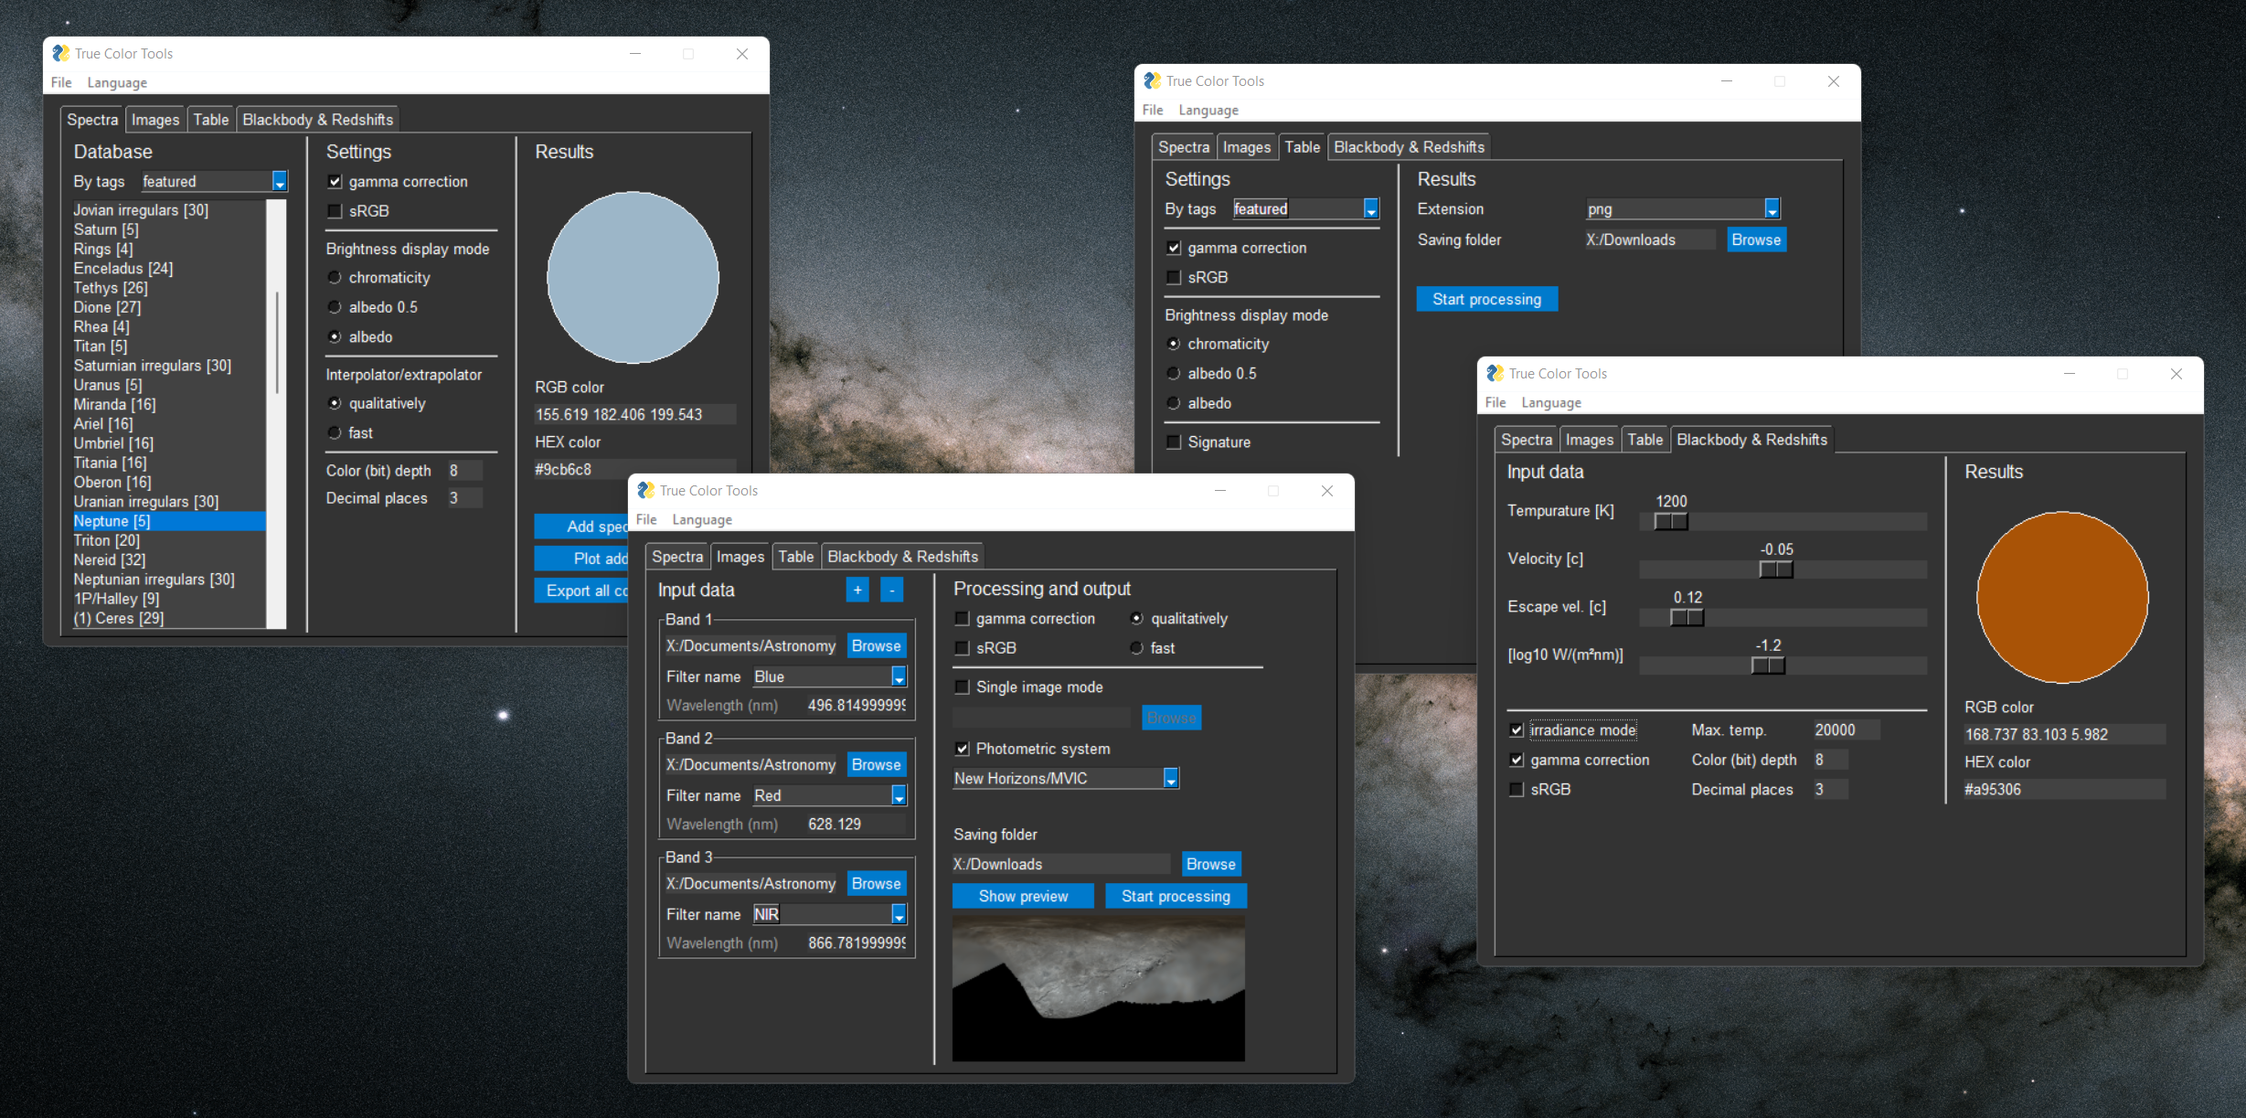
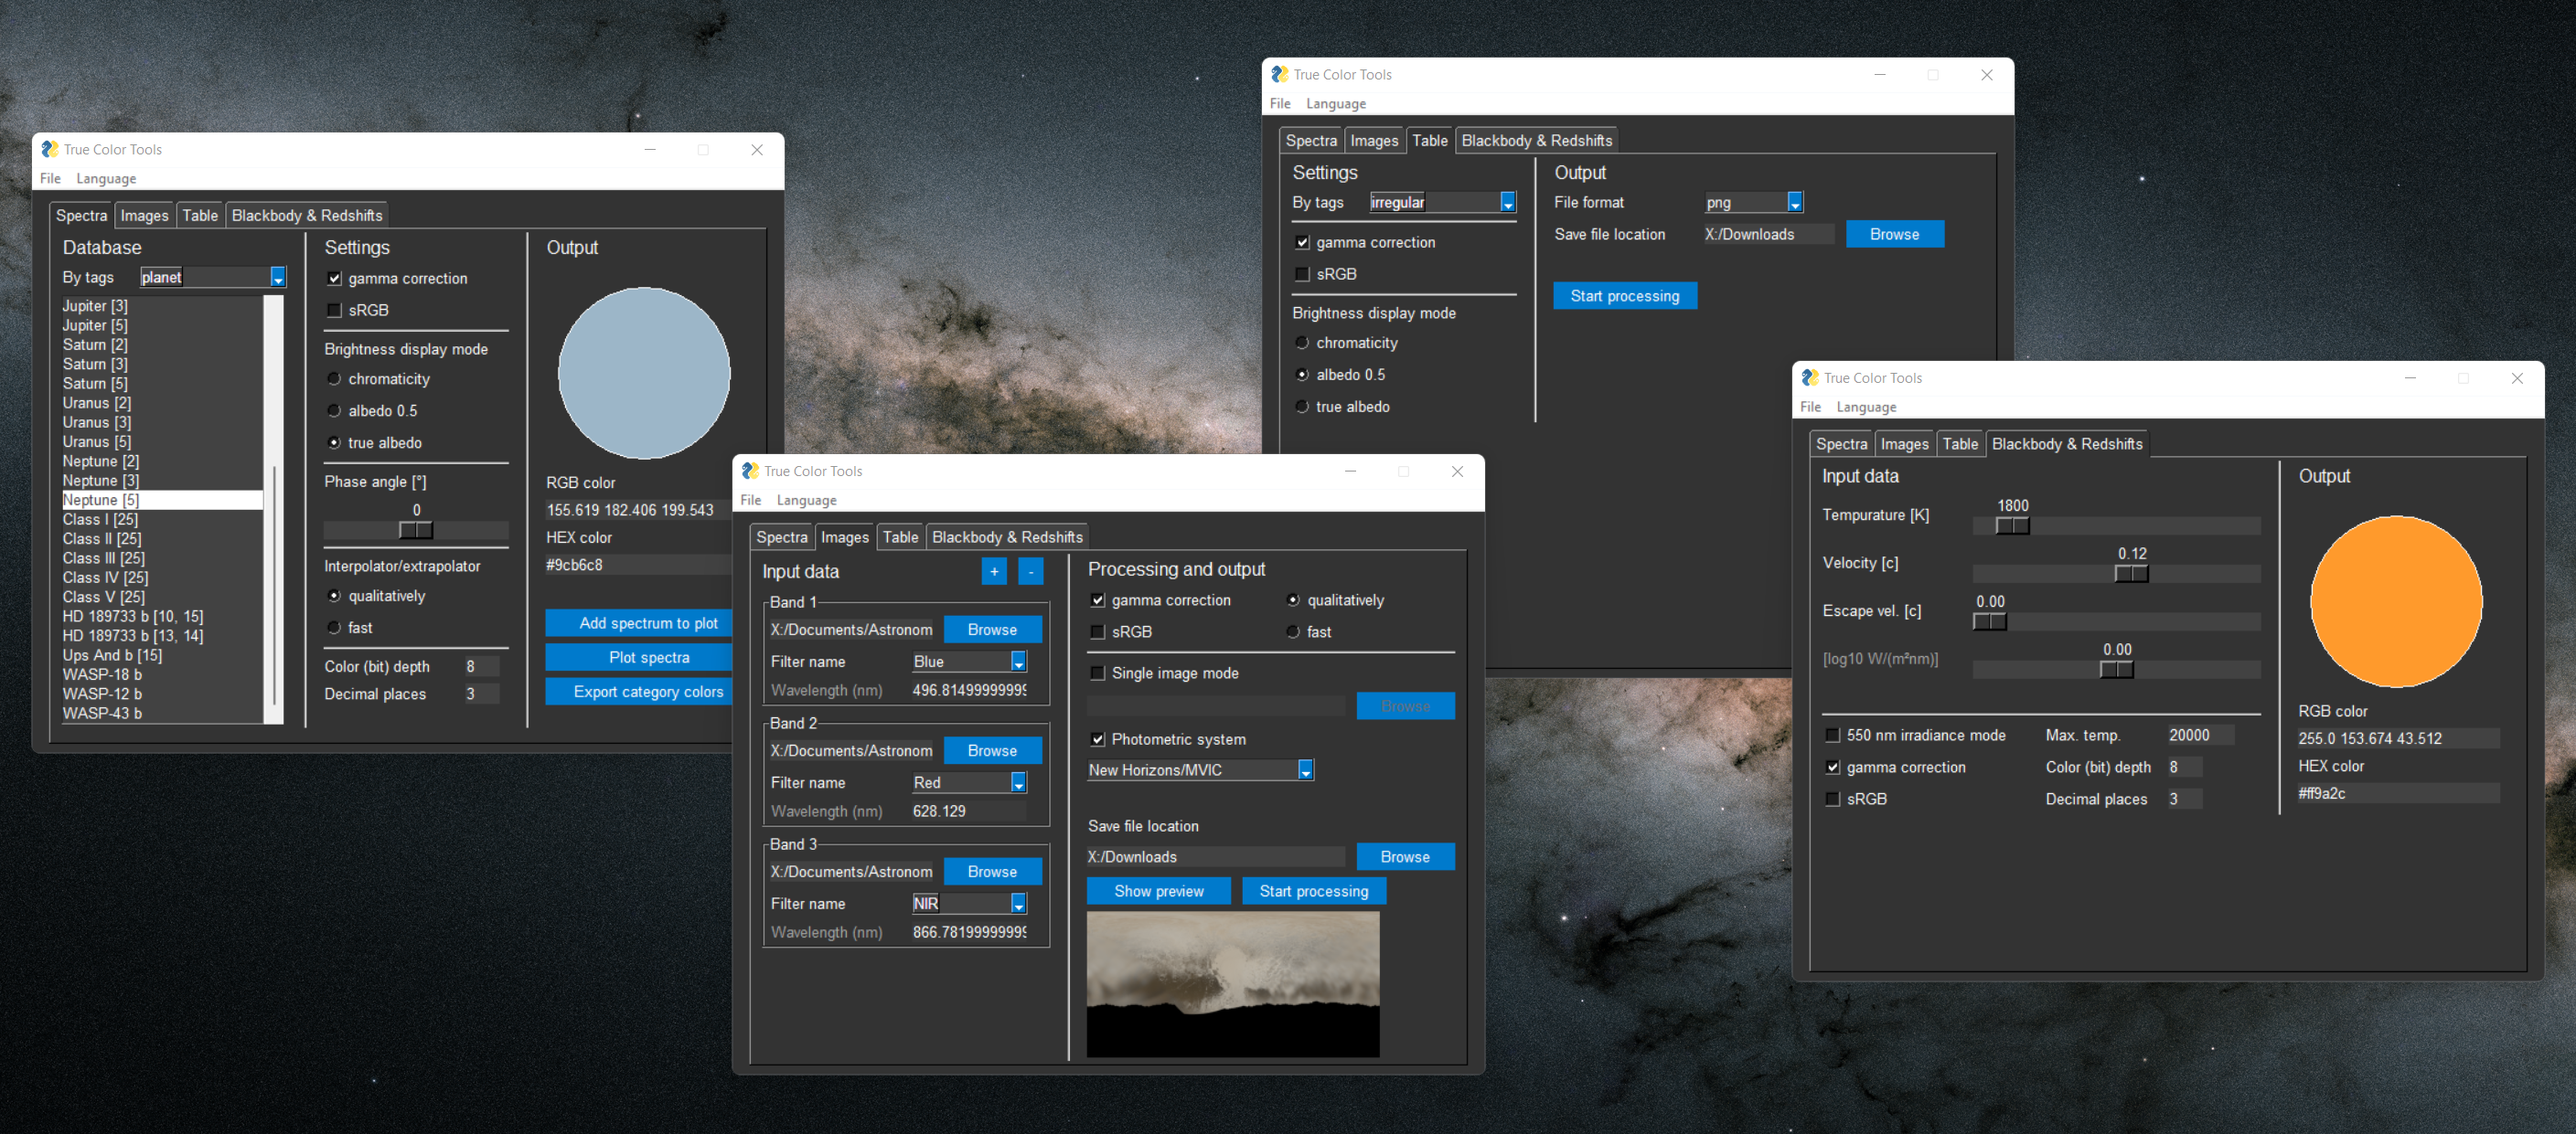
final polishing

diff --git a/Scripts/TCT.py b/Scripts/TCT.py
@@ -715,7 +715,7 @@ while True:
             T3_h0 = T3_name_step + 100 * int(np.ceil(T3_l / T3_num) + 1)
             T3_h1 = T3_h0 + T3_s * T3_srce_step
             T3_w0 = 100 - T3_r
-            T3_w1 = int(T3_w * 3/5)
+            T3_w1 = int(T3_w * 0.618034) # golden ratio
             T3_img = Image.new("RGB", (T3_w, T3_h1 + 50), (0, 0, 0))
             T3_draw = ImageDraw.Draw(T3_img)
             try:
@@ -819,7 +819,7 @@ while True:
                 
                 T3_splitted = line_splitter(name, T3_objt_font, T3_ar*2)
                 shift = T3_objt_size/2 if len(T3_splitted) == 1 else T3_objt_size
-                T3_draw.multiline_text((center_x-T3_ar, center_y-shift), "\n".join(T3_splitted), fill=T3_text_color, font=T3_objt_font)
+                T3_draw.multiline_text((center_x-T3_ar, center_y-shift), "\n".join(T3_splitted), fill=T3_text_color, font=T3_objt_font, spacing=5)
                 
                 T3_n += 1
                 # print(export(T3_rgb), name)
@@ -830,8 +830,8 @@ while True:
             T3_min_limit = T3_h0 + T3_note_step * (T3_note_num + T3_info_num + 1)
             T3_img = T3_img.crop((0, 0, T3_w, T3_h2+50 if T3_h2 > T3_min_limit else T3_min_limit+50))
             T3_img.save(f'{values["T3_folder"]}/{T3_file_name}')
-            #T3_img.show()
-            print("Done, saves as", T3_file_name)
+            # T3_img.show()
+            print("Done, saved as", T3_file_name)
     
     # ------------ Events in the tab "Blackbody & Redshifts" ------------
     

diff --git a/README.md b/README.md
@@ -43,7 +43,9 @@ For example, you can get colors formatted for [Celestia](https://github.com/Cele
 
 **Images tab** allows you to load image(s), specify wavelengths and save a processed image, for each pixel of which a spectrum was built. It takes a very long time with the current algorithm, so you can check out the preview.
 
-**Table tab** generates a customizable table of calculated colors from the spectra database. You can see examples [here](Tables/).
+**Table tab** generates an image of all the colors of the selected category and their sources. You can see examples [here](Tables/).
+
+Note: to use the *Table* tab on Linux, the NotoSans font family must be installed in `/usr/share/fonts/truetype/`.
 
 **Blackbody & Redshifts tab** calculates the influence of physical phenomena on color. Based on the blackbody spectrum, the program displays the changes in color and brightness from Doppler and gravitational redshifts. You can lock the exposure through the logarithmic spectral irradiance scale. It is measured in energy from 1 m² on 550 nm in the 1 nm range.
 
